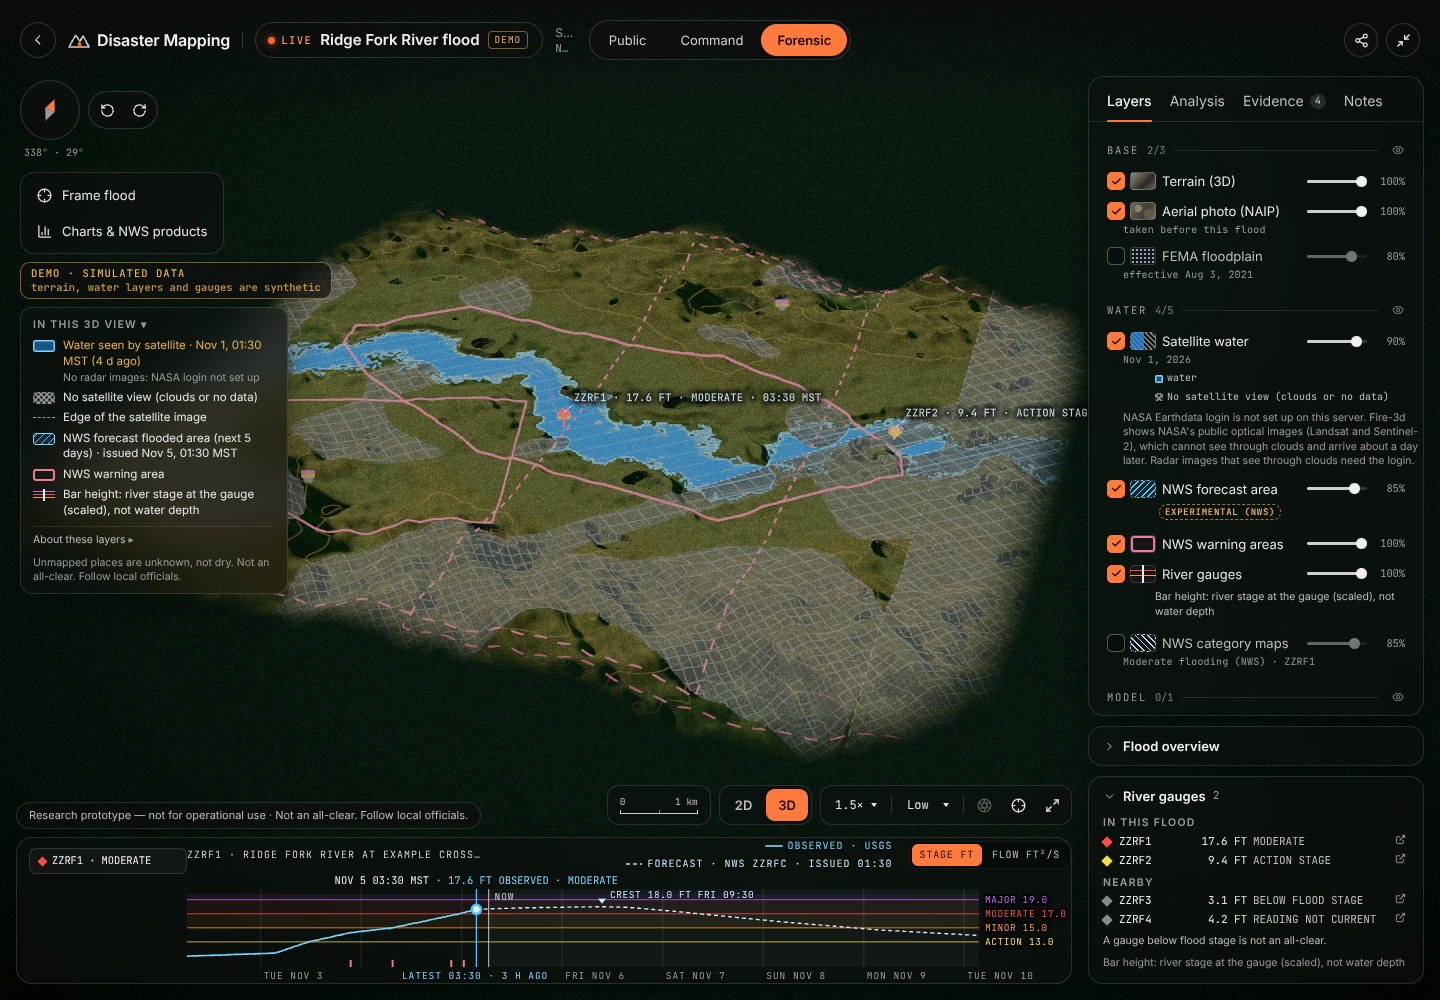
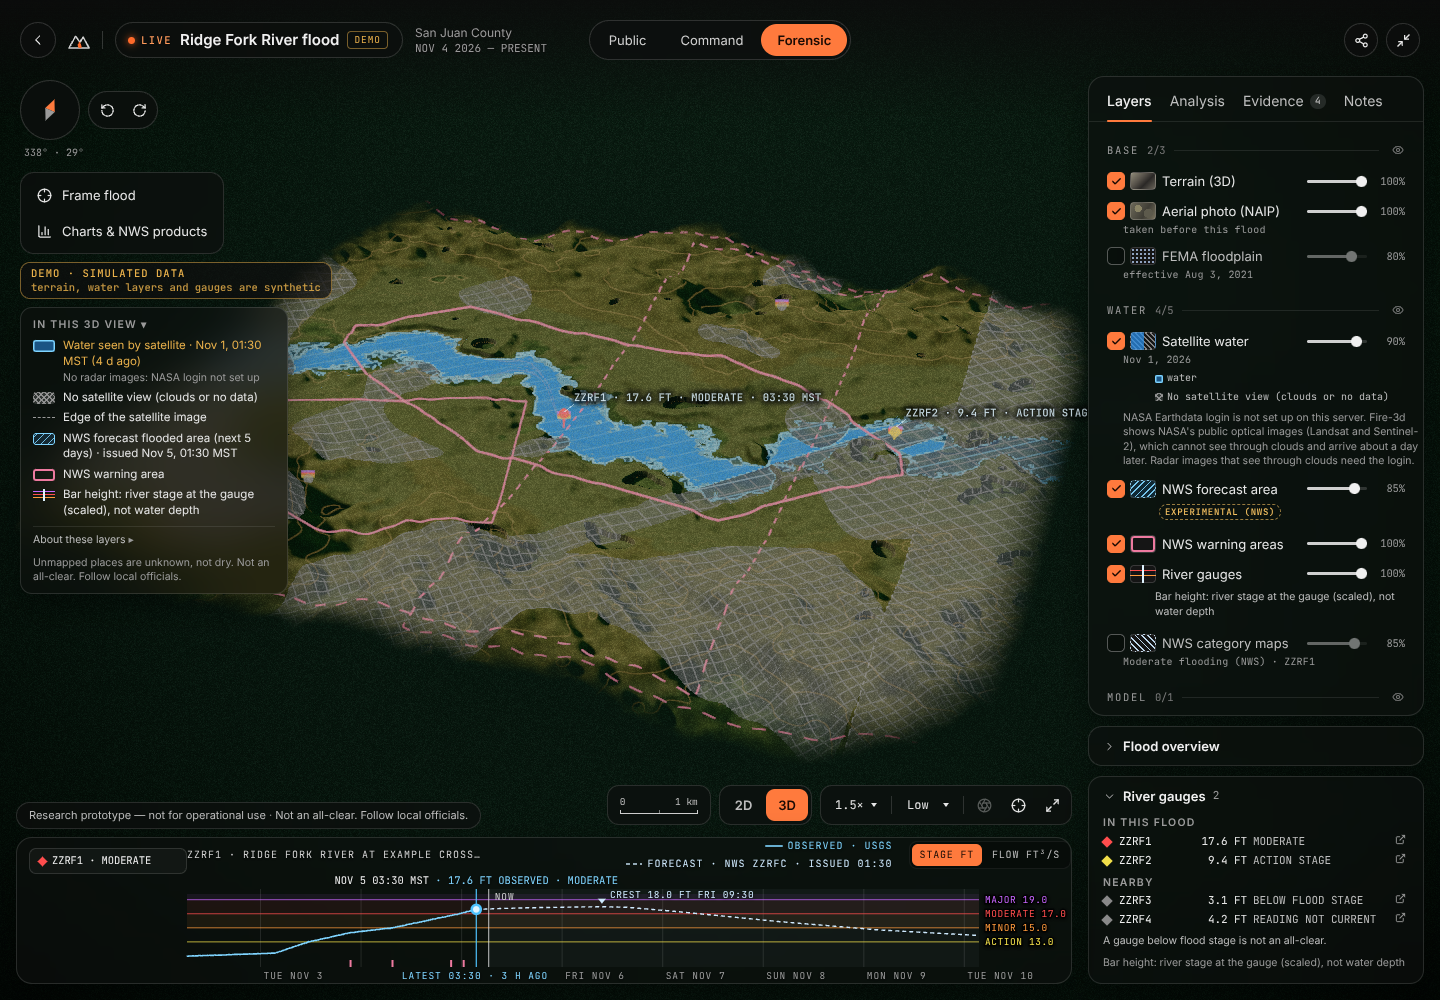
brief 6 rename-docs: M2 zoom dimming off by default, with a 'Zoom dimming' switch in Layers and settings
The code (map/zoomDimming.ts, useWorkspace zoomDimming, MapAtmosphere data-vignette, atmosphere.css, the Display
section in LayersPanel and FloodLayersPanel, tests) went in with the wave-1 snapshot 126ba1d; this commit adds the
screenshots (dimming off and on, overviews, Forensic flood bar at 1440 and 1760 px, a first-seen flood on desktop and
phone) and the progress note. Also in 126ba1d: the Forensic bar's brand word hides up to 1720 px (the longer name cut
the place and date lines), and one regex in FloodReadout.test.ts fixed after M1.

Claude-Session: https://claude.ai/code/session_016JQLLLPiy3zrdDeXcY1uZS

Changed region(s): [[0.0625, 0.031, 0.375, 0.062]]

diff --git a/docs/redesign/progress/brief6-rename-docs.md b/docs/redesign/progress/brief6-rename-docs.md
@@ -2,7 +2,7 @@
 
 Role: rename-docs (builder). Ports: API 8761, Vite 5221. Owned files: see BRIEF-6 role table.
 
-## M1 rename (in progress)
+## M1 rename (done, 17f0d6b)
 - Done: "Fire-3d" -> "Disaster Mapping" ("FIRE-3D" -> "DISASTER MAPPING") in web/src (strings and comments),
   web/*.html (title, description, noscript), backend/fire3d strings, docstrings and comments, backend/scripts,
   backend/tests asserting old strings, the flood fixture copies (backend/tests/data/floods/fixture_api and
@@ -15,8 +15,24 @@ Role: rename-docs (builder). Ports: API 8761, Vite 5221. Owned files: see BRIEF-
   backend/tests/test_product_name.py (tokenize: strings and f-string parts; the User-Agent).
 - test_floods_evacuations: the flood wording check no longer strips the app name before looking for "fire".
 
-## M2 dimming switch
-- pending
+- Follow-up in M2's commit: one regex literal in location/FloodReadout.test.ts ended in "Fire-3d/" and got the
+  User-Agent form ("Disaster-Mapping/"); fixed to "Disaster Mapping/".
+
+## M2 dimming switch (done)
+- map/zoomDimming.ts (key `fire3d.zoomDimming`, read/write wrapped in try/catch, default off), useWorkspace
+  `zoomDimming` + `setZoomDimming`, MapAtmosphere marks `data-vignette="on|off"` and follows the zoom only while on,
+  atmosphere.css hides `::before` unless on (edge gradients `::after` unchanged).
+- ui/shell/ZoomDimmingSwitch.tsx: `DisplaySection` ("Display" / "Zoom dimming", checkbox role="switch") after Units in
+  LayersPanel (overview, fires) and FloodLayersPanel (floods, Public and Command).
+- Tests: map/zoomDimming.test.ts, ui/shell/ZoomDimmingSwitch.test.ts.
+- Rename follow-up: the Forensic bar's brand word now hides up to 1720 px (was 1400): with the longer name the place
+  and date lines were cut at 1440-1600 px. CONTRACT 15 line updated.
+- Screenshots: brief6-rename-docs-public-fire-dimming-off/on, -public-overview, -command-overview-floods,
+  -forensic-flood-header (1440: brand word hidden, place and date whole) and -forensic-flood-header-1760 (brand word
+  shown), -public-flood-seen-since, -phone-public-flood-seen-since (fixture server: "SEEN BY DISASTER MAPPING SINCE",
+  three lines on a phone).
+- Found: flood bundles built before the rename keep the old name in stored notes (satellite login note in
+  data/floods/*/manifest.json and satellite.json) until rebuilt; note for backend-flood-time-3d / final-check.
 
 ## M3 docs
 - pending
